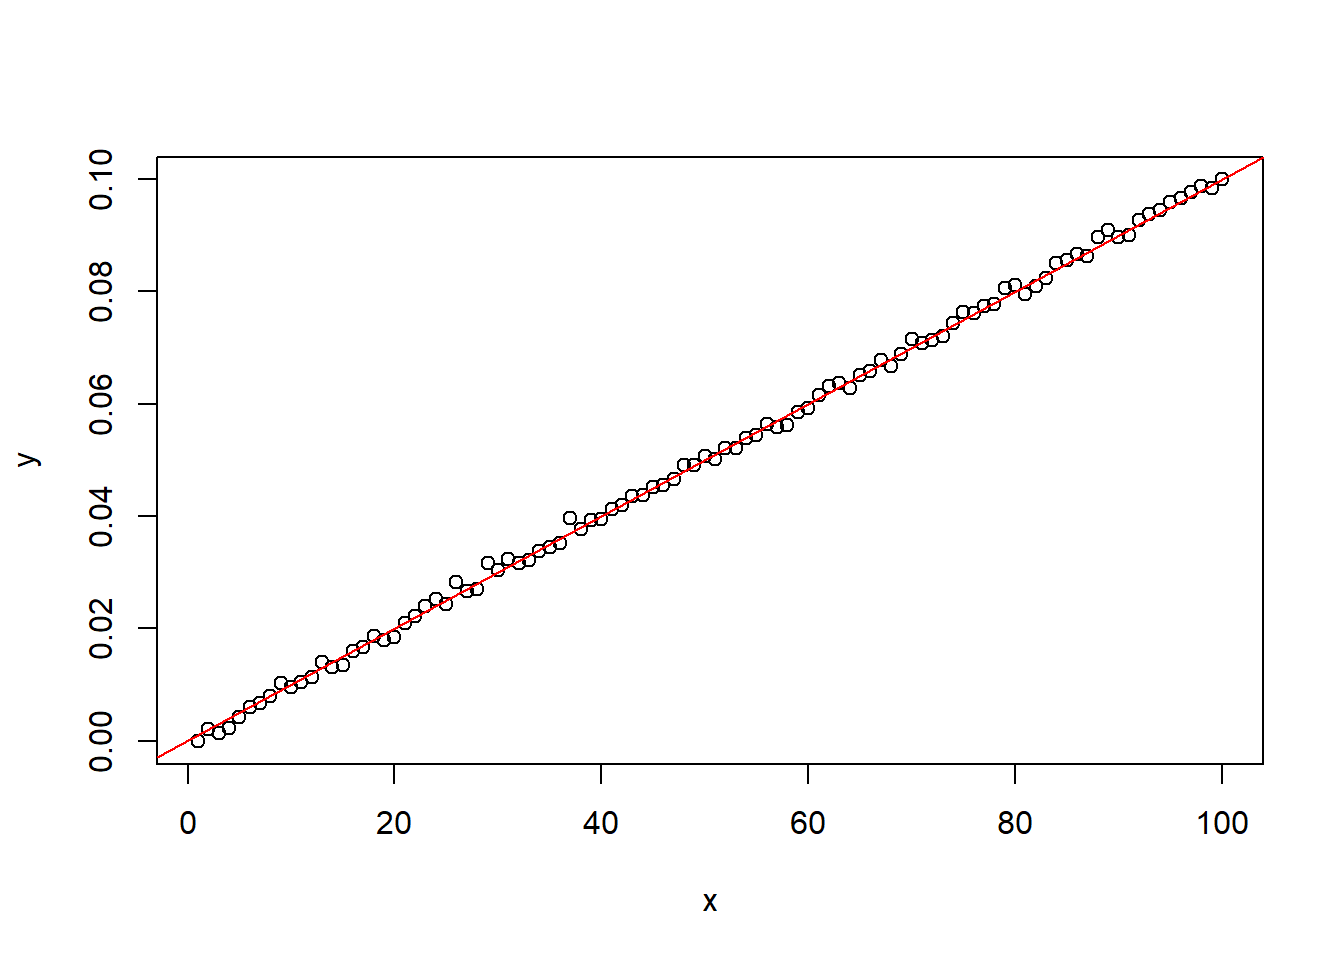
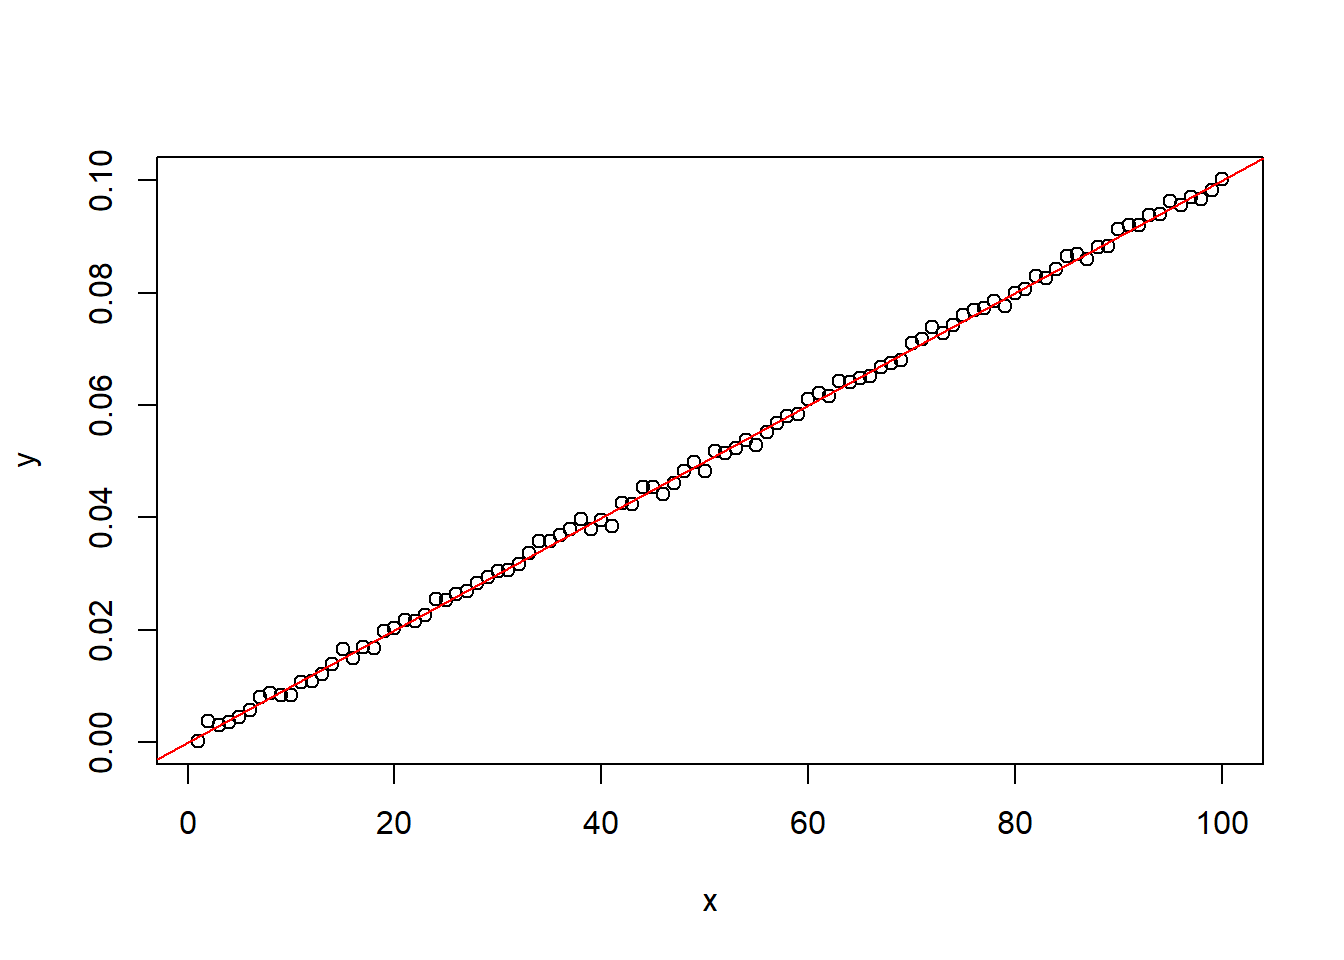
Built site for gh-pages

diff --git a/contents/1/prob.html b/contents/1/prob.html
@@ -651,8 +651,8 @@ Note
 </div>
 <div class="cell">
 <div class="code-copy-outer-scaffold"><div class="sourceCode cell-code" id="cb4"><pre class="sourceCode r code-with-copy"><code class="sourceCode r"><span id="cb4-1"><a href="#cb4-1" aria-hidden="true" tabindex="-1"></a><span class="fu">rnorm</span>(<span class="dv">10</span>)</span>
-<span id="cb4-2"><a href="#cb4-2" aria-hidden="true" tabindex="-1"></a><span class="do">##  [1]  0.45553055 -0.23798670  0.25833195  1.41453132  0.01213193  0.49161460</span></span>
-<span id="cb4-3"><a href="#cb4-3" aria-hidden="true" tabindex="-1"></a><span class="do">##  [7] -1.10011158  1.58892677 -1.18410964  0.55817316</span></span></code></pre></div><button title="Copy to Clipboard" class="code-copy-button"><i class="bi"></i></button></div>
+<span id="cb4-2"><a href="#cb4-2" aria-hidden="true" tabindex="-1"></a><span class="do">##  [1]  1.5386296 -1.5220760 -0.3946904 -0.9951146 -1.0390346 -2.0513545</span></span>
+<span id="cb4-3"><a href="#cb4-3" aria-hidden="true" tabindex="-1"></a><span class="do">##  [7]  1.1761563 -0.2277870  0.2451588 -0.2204121</span></span></code></pre></div><button title="Copy to Clipboard" class="code-copy-button"><i class="bi"></i></button></div>
 </div>
 </details>
 </div>
@@ -714,7 +714,7 @@ r=\cor(x,y)=\frac{SS_{xy}}{\sqrt{{SS_{xx}SS_{yy}}}}.
 </div>
 </div>
 <div class="code-copy-outer-scaffold"><div class="sourceCode cell-code" id="cb6"><pre class="sourceCode r code-with-copy"><code class="sourceCode r"><span id="cb6-1"><a href="#cb6-1" aria-hidden="true" tabindex="-1"></a><span class="fu">cor</span>(x, y)</span>
-<span id="cb6-2"><a href="#cb6-2" aria-hidden="true" tabindex="-1"></a><span class="do">## [1] 0.9995064</span></span></code></pre></div><button title="Copy to Clipboard" class="code-copy-button"><i class="bi"></i></button></div>
+<span id="cb6-2"><a href="#cb6-2" aria-hidden="true" tabindex="-1"></a><span class="do">## [1] 0.9994872</span></span></code></pre></div><button title="Copy to Clipboard" class="code-copy-button"><i class="bi"></i></button></div>
 </div>
 </div>
 </section>

diff --git a/index.html b/index.html
@@ -7,7 +7,7 @@
 <meta name="viewport" content="width=device-width, initial-scale=1.0, user-scalable=yes">
 
 <meta name="author" content="Xinli Xiao">
-<meta name="dcterms.date" content="2026-01-20">
+<meta name="dcterms.date" content="2026-01-21">
 
 <title>Regression 26 Spring</title>
 <style>
@@ -414,7 +414,7 @@ div.csl-indent {
     <div>
     <div class="quarto-title-meta-heading">Published</div>
     <div class="quarto-title-meta-contents">
-      <p class="date">January 20, 2026</p>
+      <p class="date">January 21, 2026</p>
     </div>
   </div>
   
